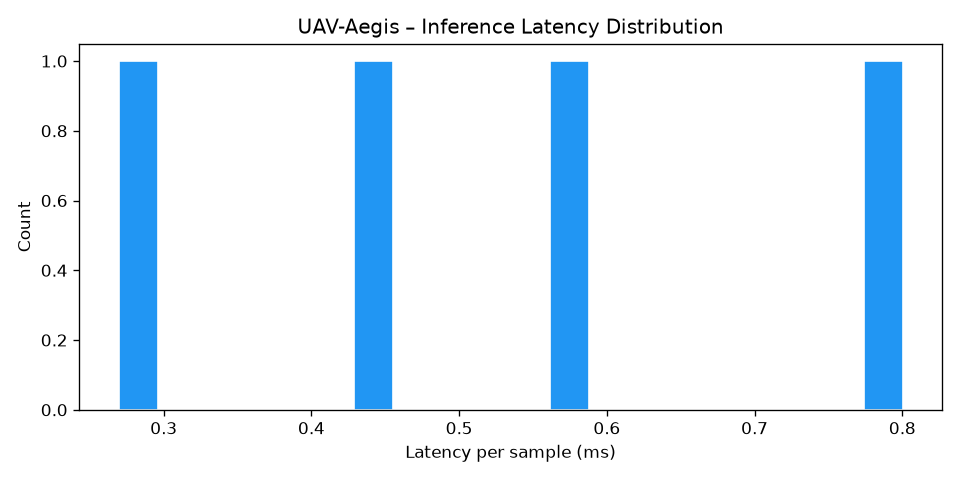
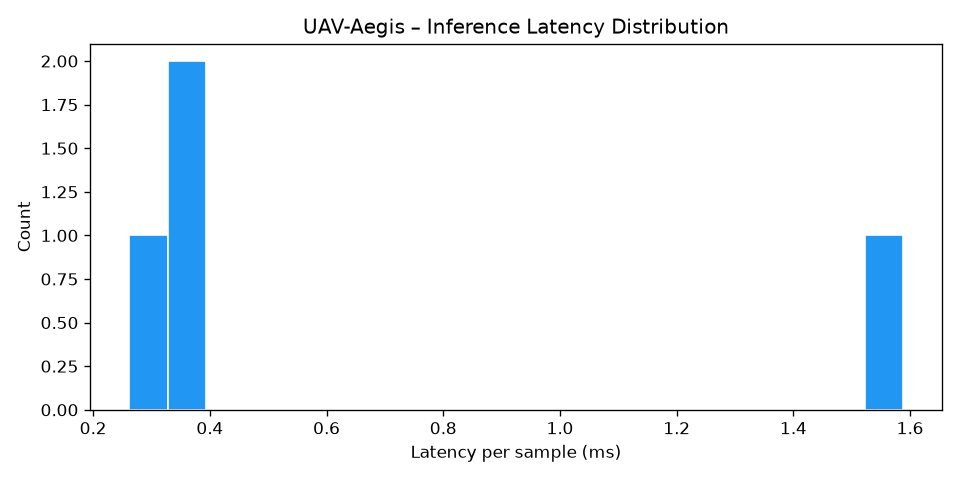
Fix CI smoke benchmark: synthetic fallback crashed on (None, None) unpack
load_real_data returns (None, None) when no HDF5 exists; the truthy tuple
passed the 'is not None' guard and the nested unpack raised TypeError in CI
(no datasets committed). Also pair the synthetic fallback with mock inference
since the real 13-channel model cannot run on 10-channel synthetic data.
Verified both paths locally: no-dataset smoke exits 0 (CI env), with-dataset
smoke unchanged.

diff --git a/scripts/benchmarks/run_benchmark.py b/scripts/benchmarks/run_benchmark.py
@@ -174,13 +174,16 @@ def run(smoke: bool = False):
     model, norm_stats = load_real_model()
     data_result = load_real_data(max_samples=n_samples)
     
-    if data_result is not None:
+    if data_result is not None and data_result[0] is not None:
         (X, y_true, classes), dataset_path = data_result
         log.info(f"Loaded real data from {dataset_path}")
         log.info(f"Classes: {classes}")
     else:
         X, y_true = synthetic_batch(n_samples)
         classes = ["Healthy", "Cracked", "Imbalanced", "Eroded"]
+        # Synthetic fallback: the real model expects 13-channel real data,
+        # so pair synthetic data with mock inference (CI smoke path).
+        model = None
         log.info("Using synthetic data")
 
     # ── Latency measurement ───────────────────────────────────────────────────
